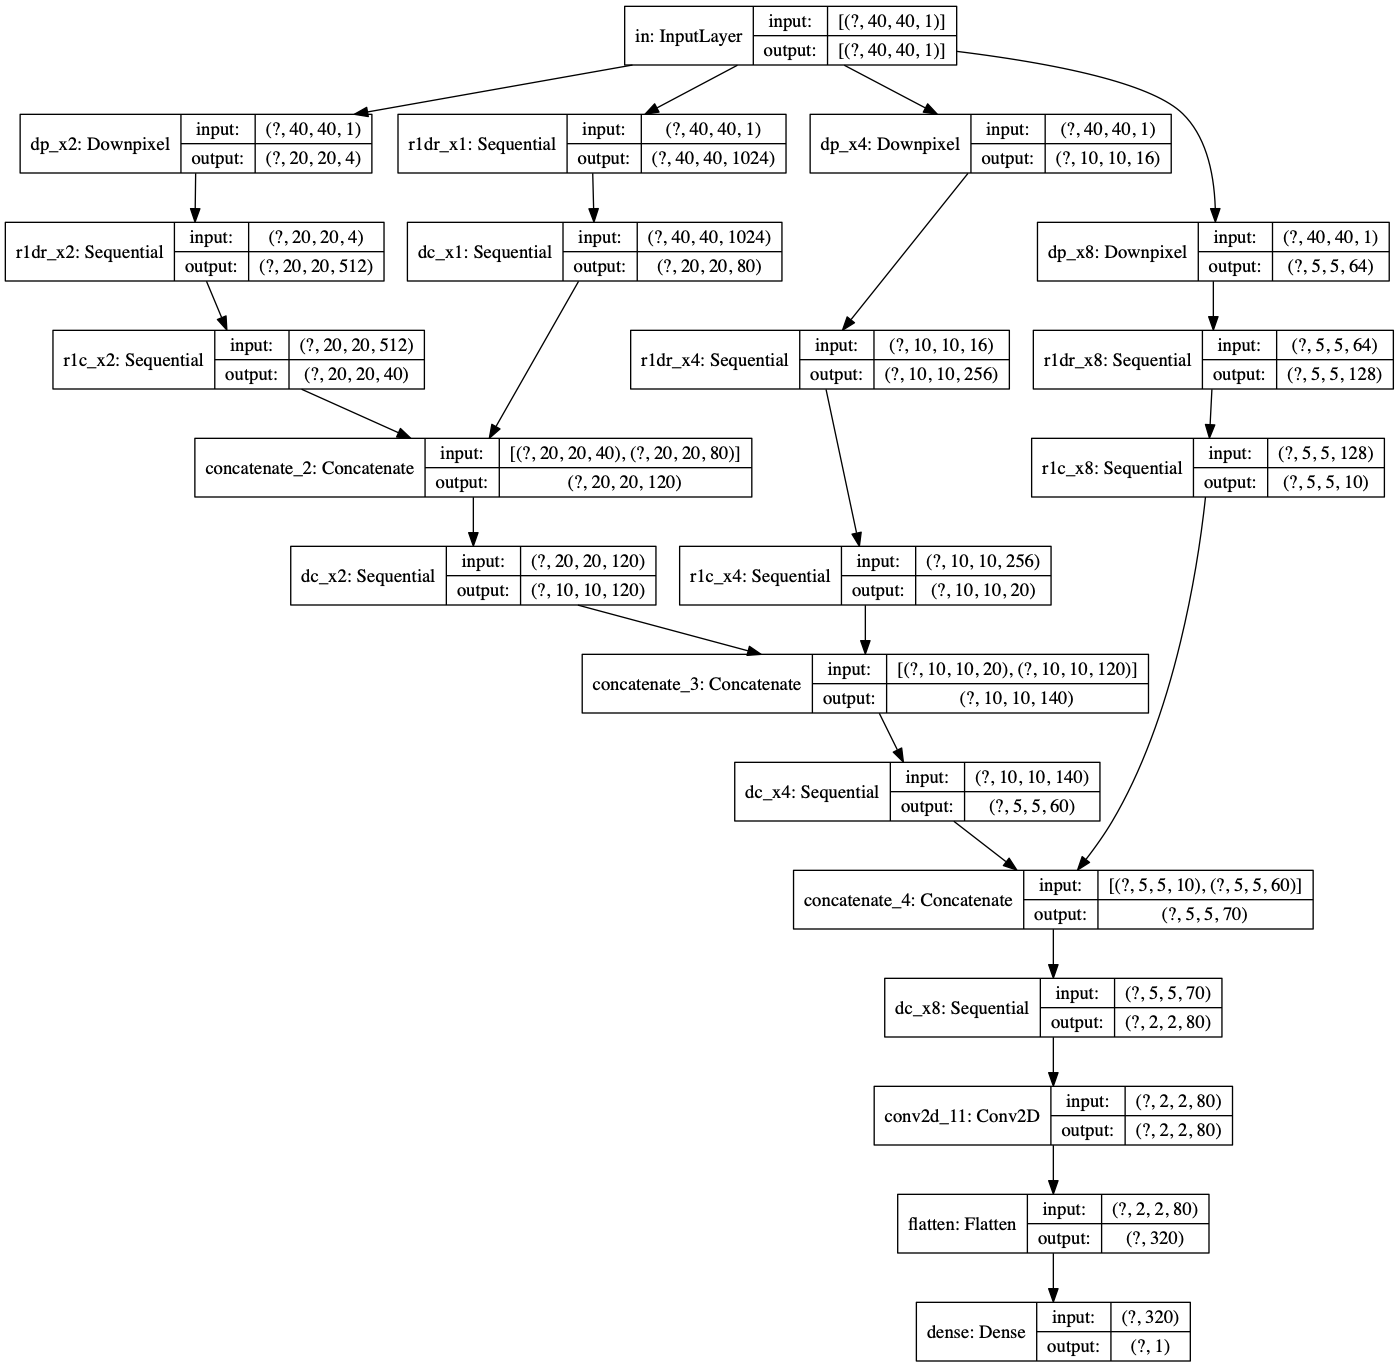
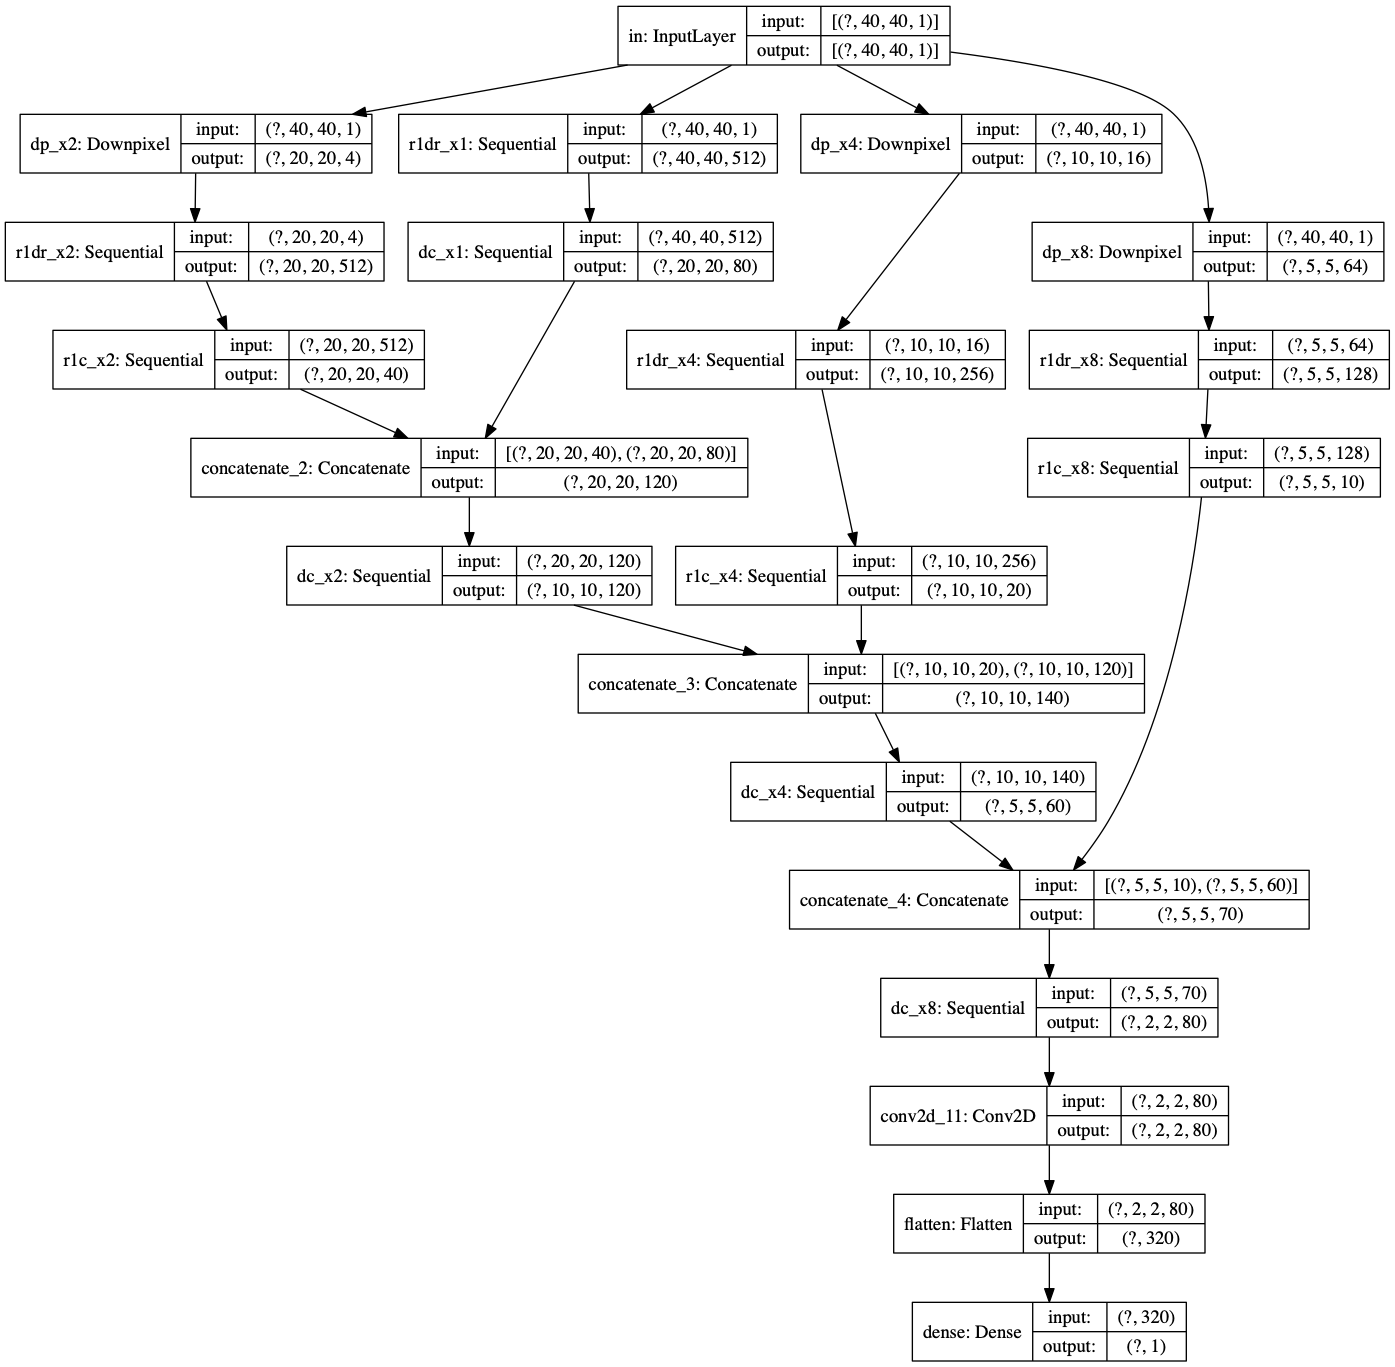
update gen, dis parameters & slurm outputs

diff --git a/model.py b/model.py
@@ -211,40 +211,40 @@ def make_generator_model(len_high_size=128, scale=4):
         pool_size=(2, 2), strides=2, padding='valid', name='p_x8')(low_x4)
 
     dsd_x8 = block_downsample_decomposition(
-        len_low_size_x8, 8, 512, name='dsd_x8')
+        len_low_size_x8, 8, 256, name='dsd_x8')
     rech_x8 = dsd_x8(inp)
-    r1c = block_rank1channels_convolution(filters=20, name='r1c_x8')
+    r1c = block_rank1channels_convolution(filters=32, name='r1c_x8')
     sym_x8 = r1c(rech_x8)
     r1e = block_rank1_estimation(dims=len_low_size_x8, name='r1e_x8')
     out_low_x8 = r1e(rech_x8)
 
-    usc_x8 = block_upsample_convolution(20, 2, name='usc_x8')
+    usc_x8 = block_upsample_convolution(16, 2, name='usc_x8')
     sym_x8 = usc_x8(sym_x8)
 
     dsd_x4 = block_downsample_decomposition(
-        len_low_size_x4, 4, 1024, name='dsd_x4')
+        len_low_size_x4, 4, 512, name='dsd_x4')
     rech_x4 = dsd_x4(inp)
-    r1c = block_rank1channels_convolution(filters=40, name='r1c_x4')
+    r1c = block_rank1channels_convolution(filters=128, name='r1c_x4')
     sym_x4 = r1c(rech_x4)
     r1e = block_rank1_estimation(dims=len_low_size_x4, name='r1e_x4')
     out_low_x4 = r1e(rech_x4)
 
     concat = tf.keras.layers.concatenate([sym_x8, sym_x4], axis=-1)
 
-    usc_x4 = block_upsample_convolution(40, 2, name='usc_x4')
+    usc_x4 = block_upsample_convolution(64, 2, name='usc_x4')
     sym_x4 = usc_x4(concat)
 
     dsd_x2 = block_downsample_decomposition(
-        len_low_size_x2, 2, 2048, name='dsd_x2')
+        len_low_size_x2, 2, 1024, name='dsd_x2')
     rech_x2 = dsd_x2(inp)
-    r1c_x2 = block_rank1channels_convolution(filters=80, name='r1c_x2')
+    r1c_x2 = block_rank1channels_convolution(filters=256, name='r1c_x2')
     sym_x2 = r1c_x2(rech_x2)
     r1e_x2 = block_rank1_estimation(dims=len_low_size_x2, name='r1e_x2')
     out_low_x2 = r1e_x2(rech_x2)
 
     concat = tf.keras.layers.concatenate([sym_x4, sym_x2], axis=-1)
 
-    usc_x2 = block_upsample_convolution(160, 2, name='usc_x2')
+    usc_x2 = block_upsample_convolution(40, 2, name='usc_x2')
     sym = usc_x2(concat)
 
     Sumh = tf.keras.layers.Conv2D(filters=1, kernel_size=(1, 1),
@@ -294,7 +294,7 @@ def make_discriminator_model(len_high_size=128, scale=4):
         shape=(len_high_size, len_high_size, 1), name='in', dtype=tf.float32)
 
     b_r1dr = block_rank1_decompose_reconstruct(
-        len_size=len_x1, filters_decompose=1024, name='r1dr_x1')
+        len_size=len_x1, filters_decompose=512, name='r1dr_x1')
     r1dr_x1 = b_r1dr(inp)
     b_dc = block_down_convolution(filters=80, name='dc_x1')
     dc_x1 = b_dc(r1dr_x1)
@@ -419,9 +419,9 @@ def train_step_generator(Gen, Dis, imgl, imgr, loss_filter, loss_weights, opts, 
         gen_loss_low_mse_x8 = generator_mse_loss(fake_hic_l_x8, imgl_x8_filter)
 
         gen_loss_low_ssim = (gen_loss_low_ssim_x8*1.0 +
-                             gen_loss_low_ssim_x4*2.0 + gen_loss_low_ssim_x2*4.0)/7.0
+                             gen_loss_low_ssim_x4*4.0 + gen_loss_low_ssim_x2*16.0)/21.0
         gen_loss_low_mse = (gen_loss_low_mse_x8*1.0 +
-                            gen_loss_low_mse_x4*2.0 + gen_loss_low_mse_x2*4.0)/7.0
+                            gen_loss_low_mse_x4*4.0 + gen_loss_low_mse_x2*16.0)/21.0
 
         gen_loss_low = gen_loss_low_ssim + gen_loss_low_mse
         gradients_of_generator_low = x.gradient(gen_loss_low, gen_low_v)
